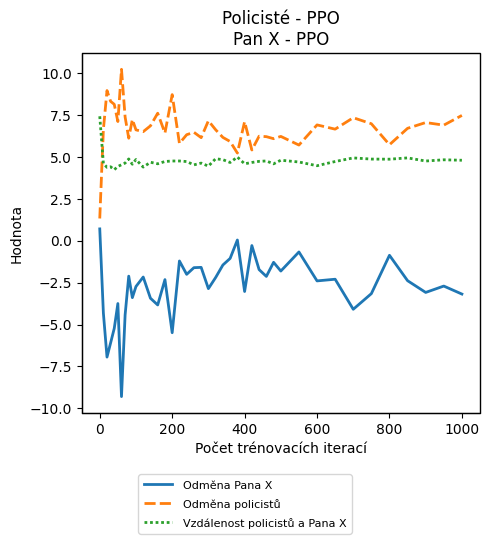
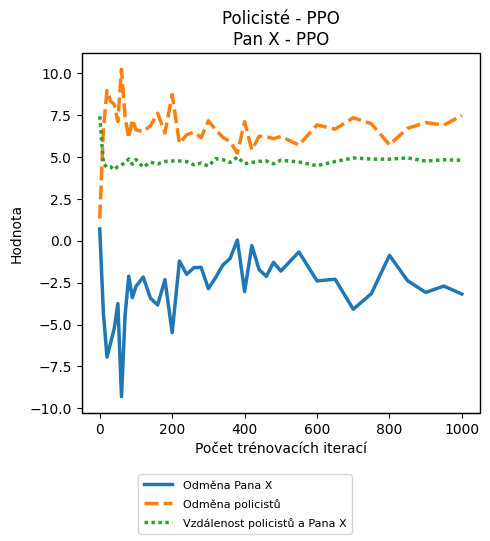
new graphs

diff --git a/src/SimulationProcessor.py b/src/SimulationProcessor.py
@@ -52,7 +52,7 @@ class SimulationProcessor:
             hue='variable',
             style='variable',
             kind='line',
-            lw=2,
+            lw=2.5,
             errorbar=None,
             facet_kws=dict(legend_out=False),
             data=dataframe.melt(id_vars='train_iteration',
